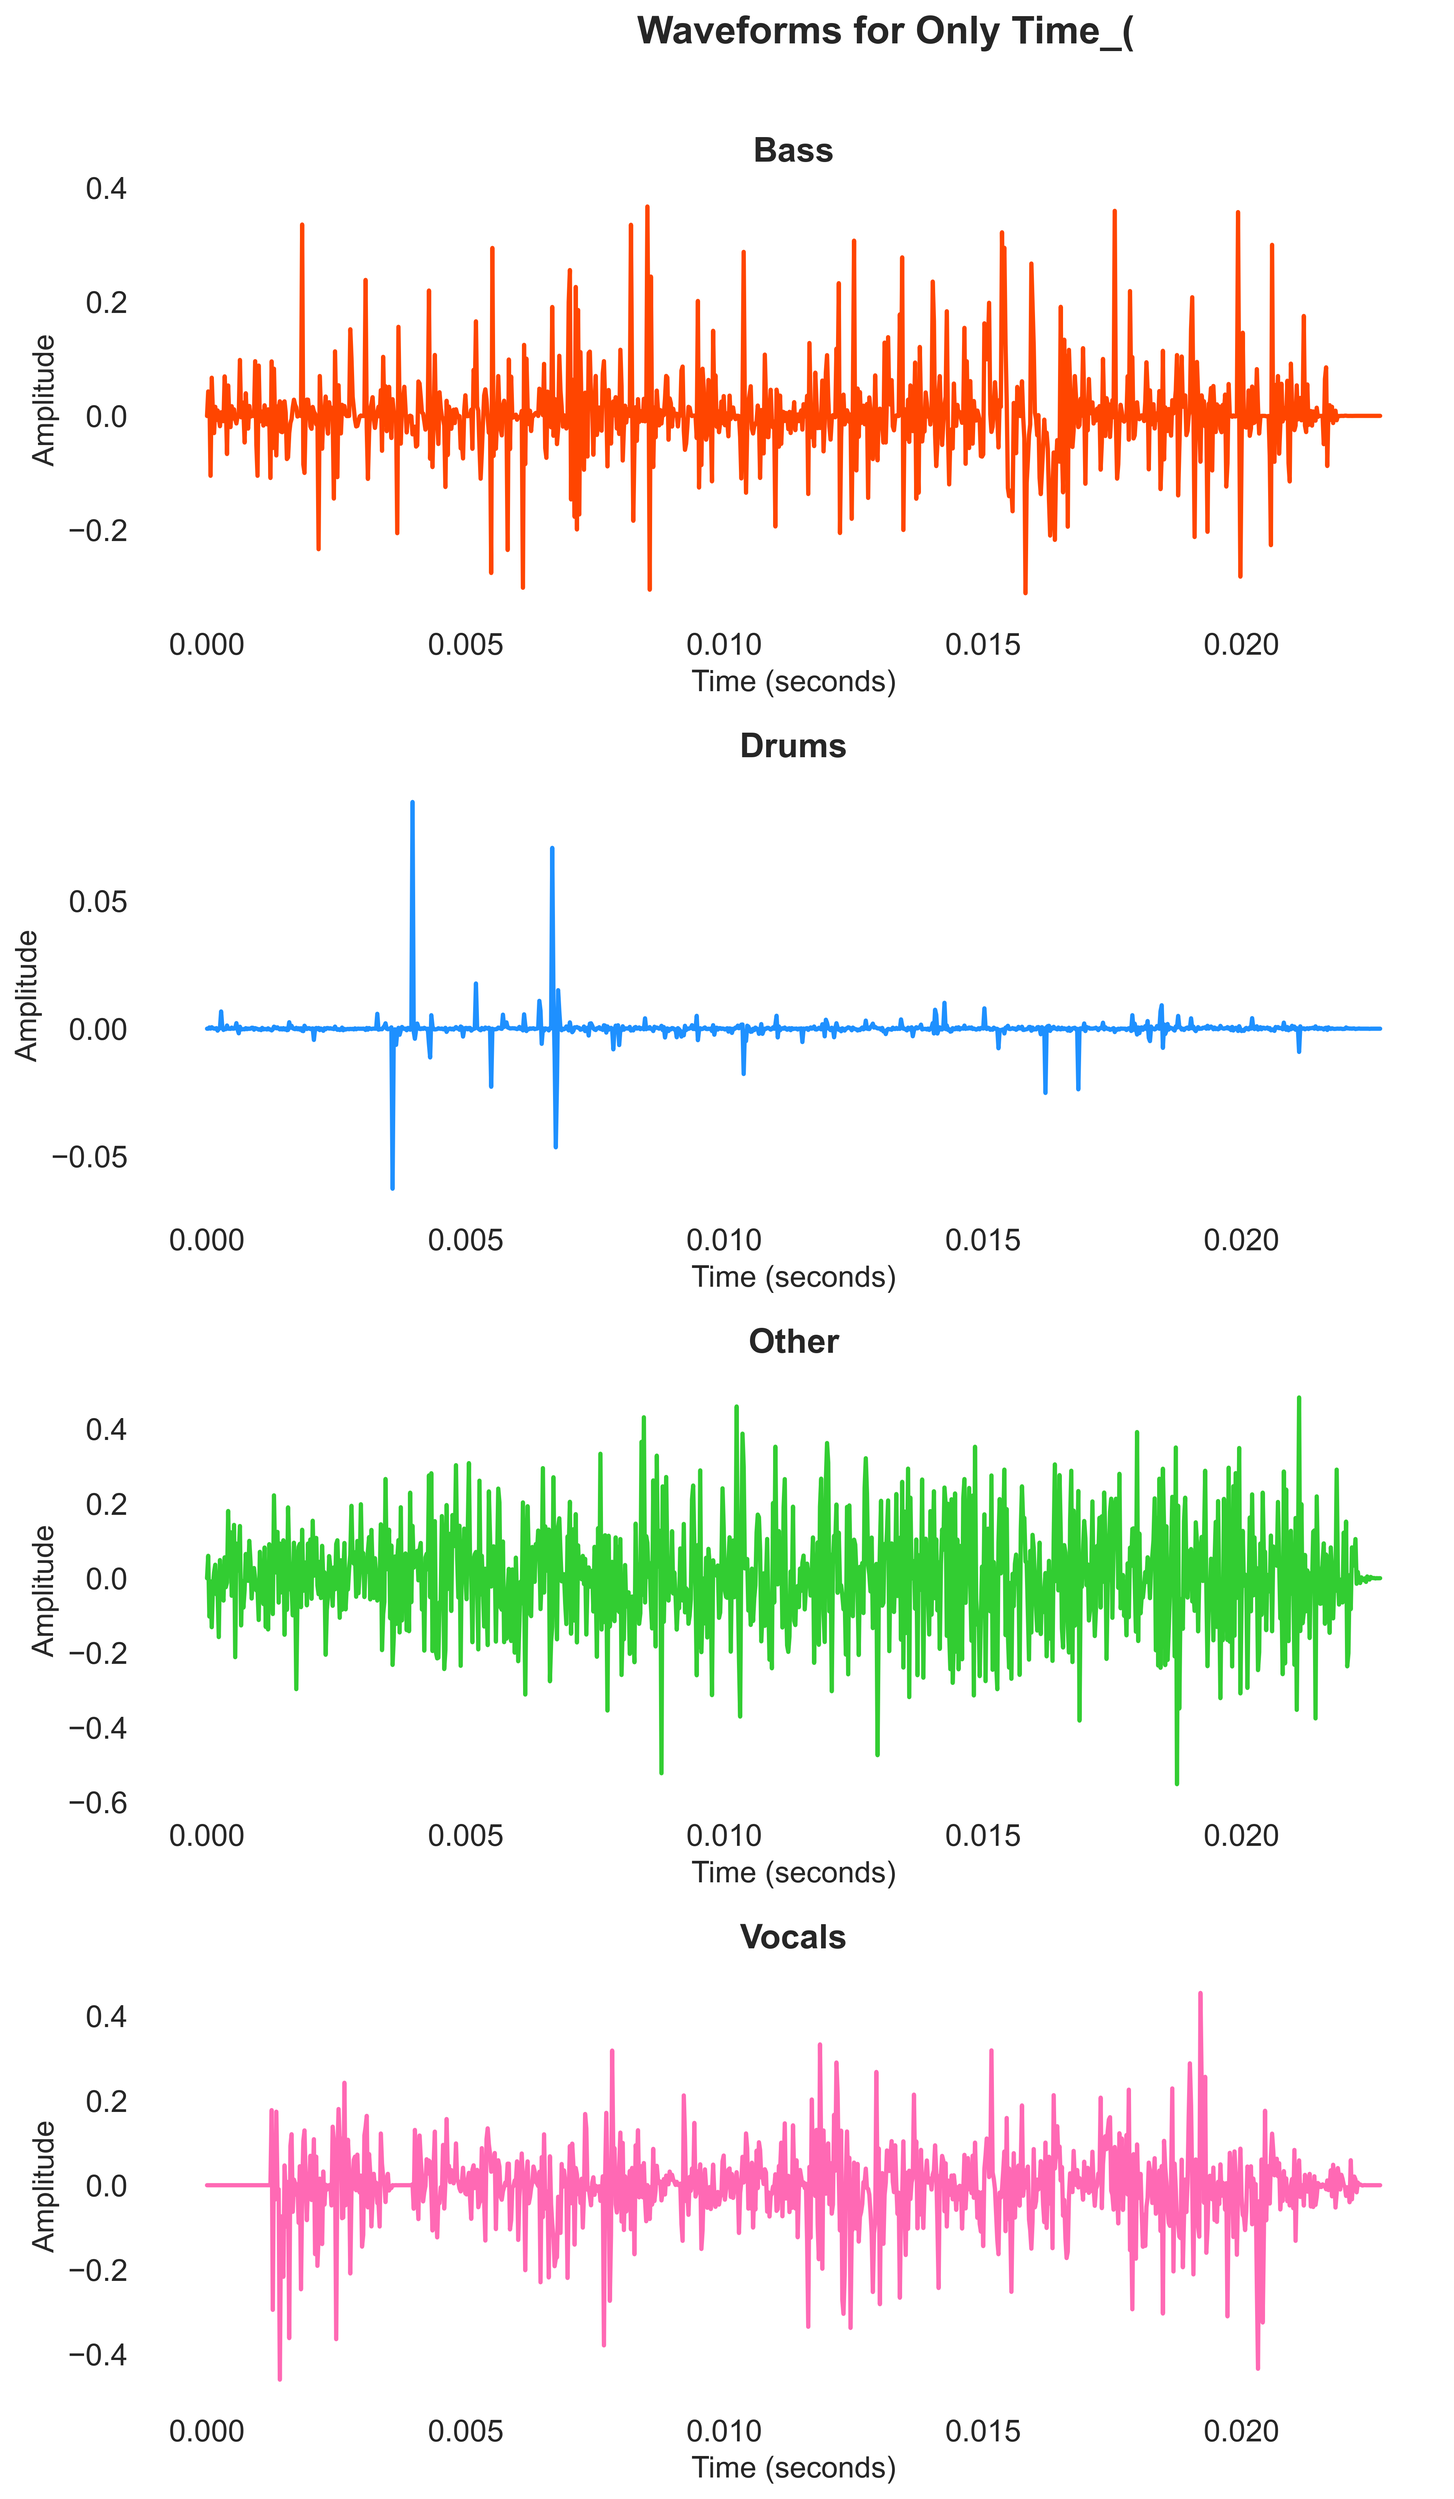
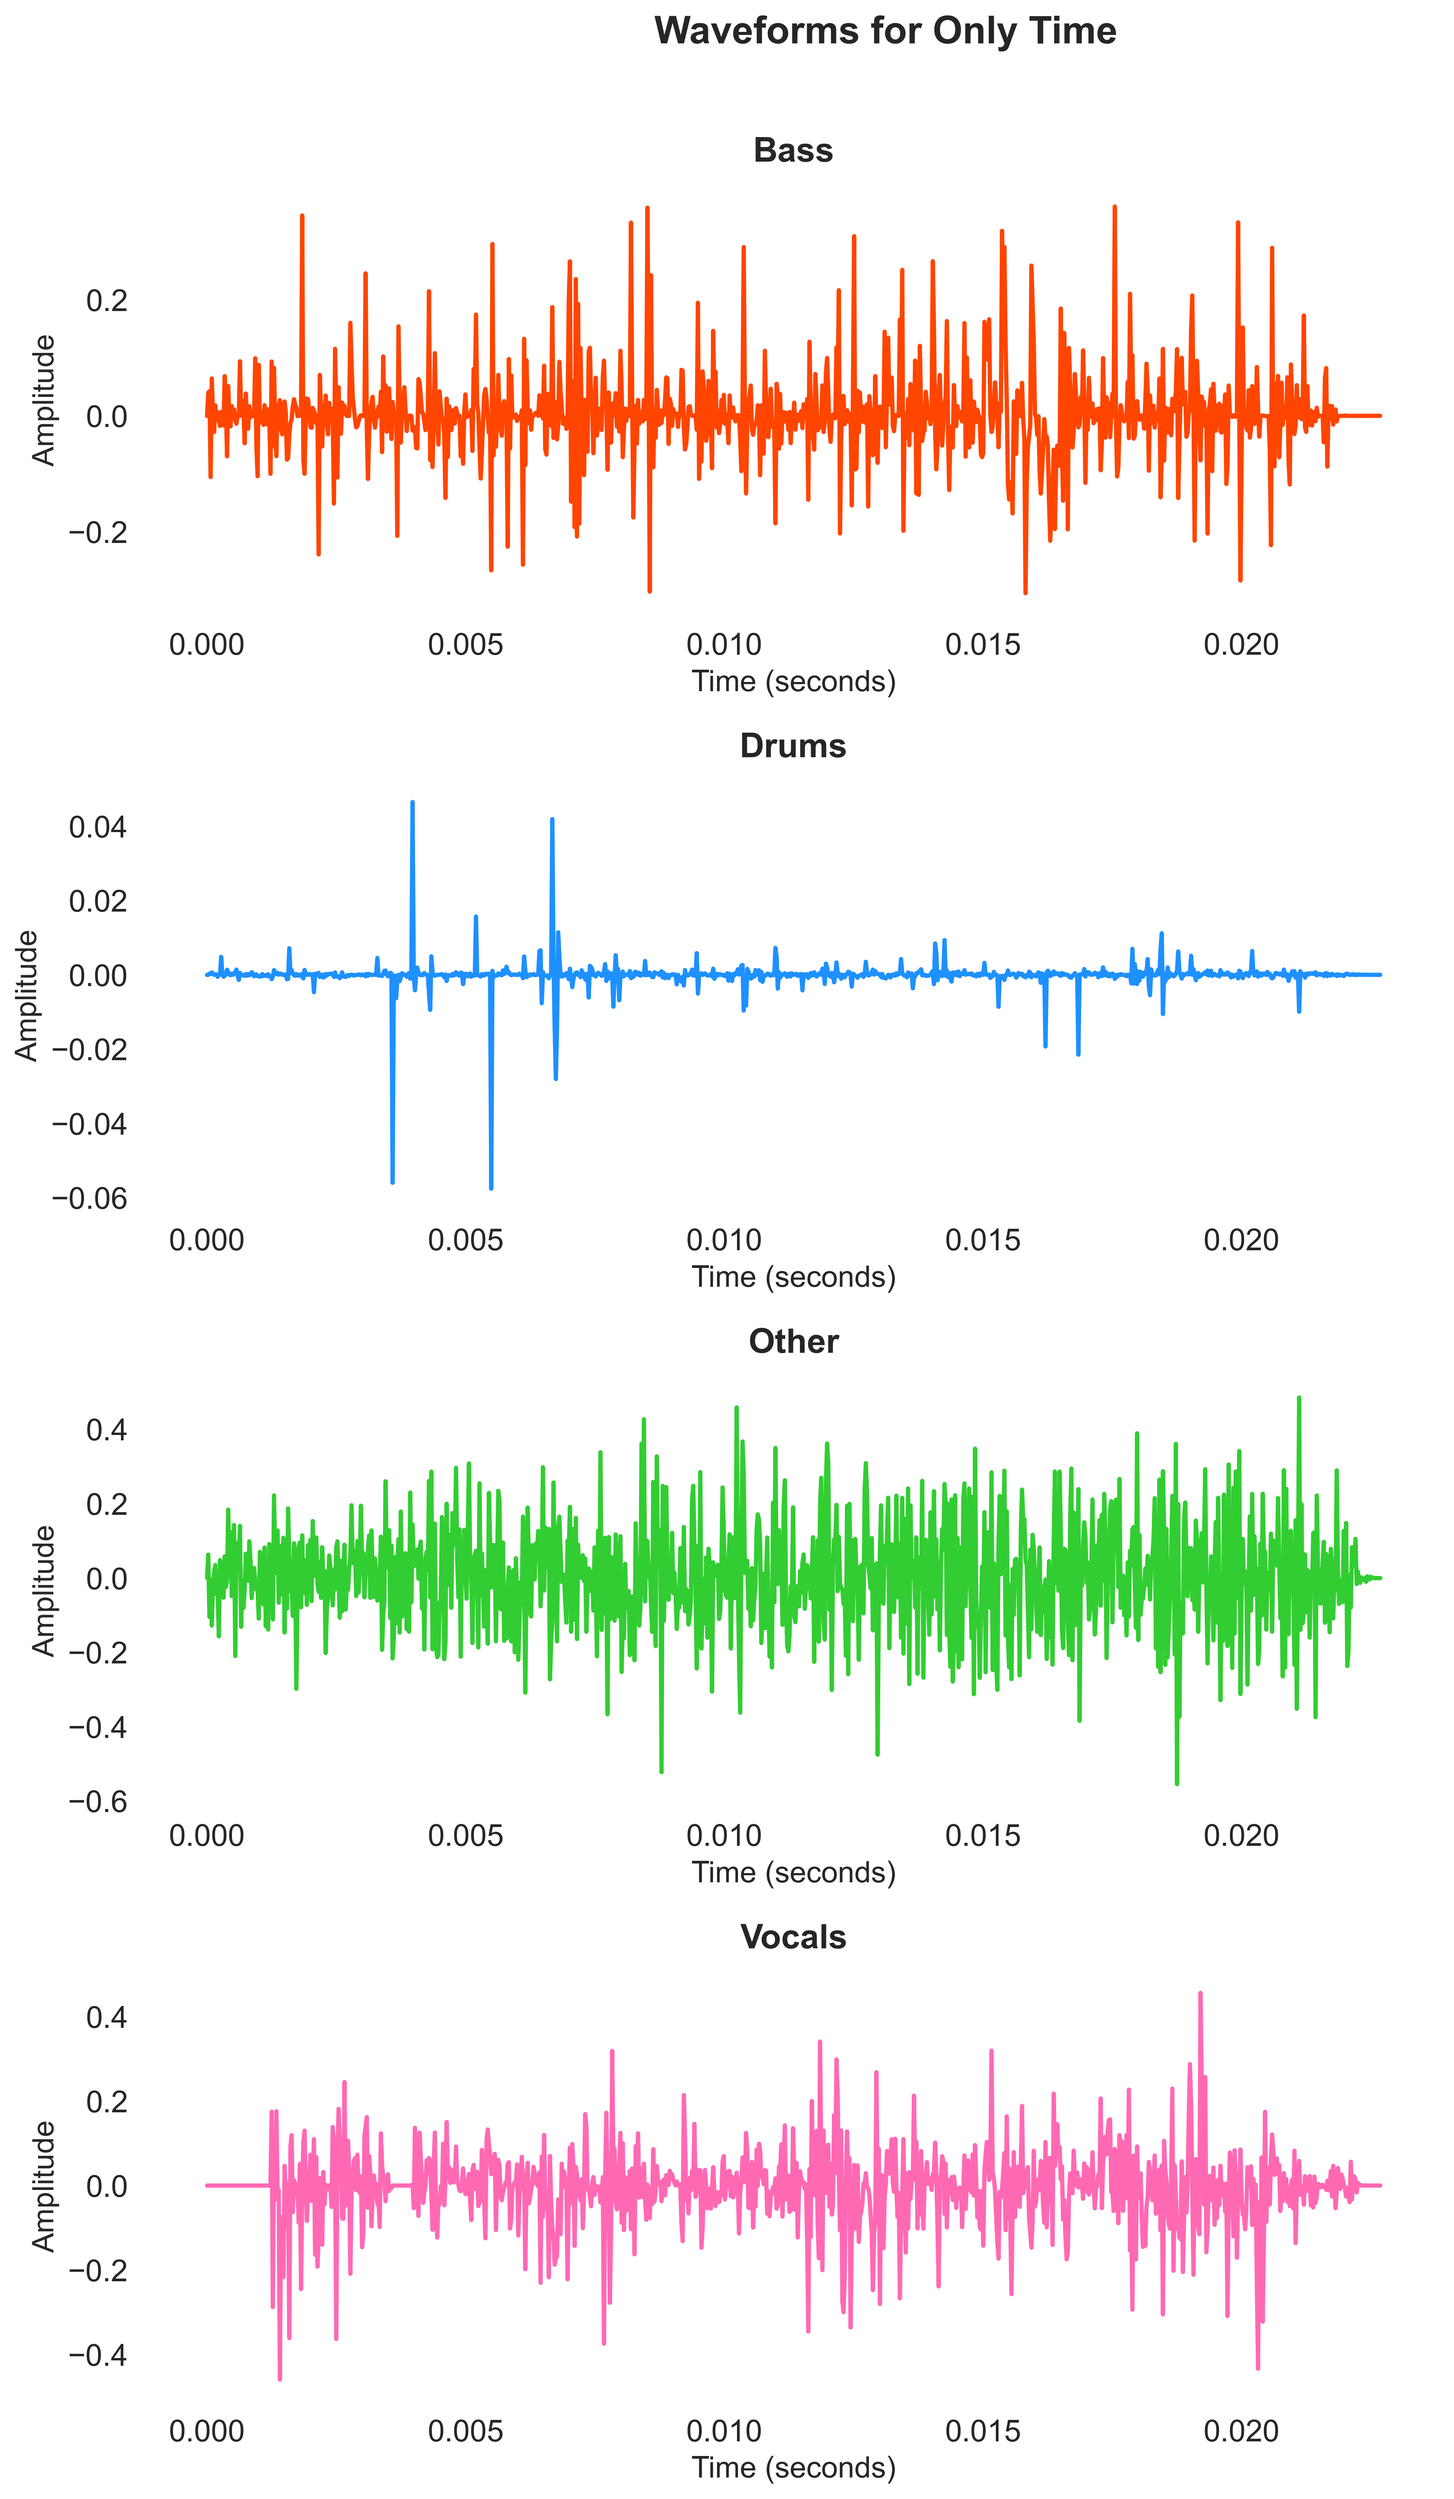
[main] corrected the titles in plotter.py and removed stereo ensurements in audio_processor.py. 	modified:   docs/images/only_time_combined_spectrograms_audio_separator_htdemucs_6s.png 	modified:   docs/images/only_time_combined_spectrograms_audio_separator_htdemucs_ft.png 	modified:   docs/images/o

diff --git a/stem_separator/audio_processor.py b/stem_separator/audio_processor.py
@@ -42,9 +42,9 @@ class StemSeparator:
             logger.info(f"{audio_path} - Loaded with sample rate {original_sample_rate} Hz")
 
             # Ensure stereo
-            if waveform.shape[0] == 1:
-                waveform = waveform.repeat(2, 1)
-                logger.info("Converted mono to stereo")
+            #if waveform.shape[0] == 1:
+            #    waveform = waveform.repeat(2, 1)
+            #    logger.info("Converted mono to stereo")
 
             # Resample to 44100 Hz if necessary
             if original_sample_rate != self.sample_rate:

diff --git a/stem_separator/plotter.py b/stem_separator/plotter.py
@@ -54,7 +54,7 @@ def get_common_audio_name(stem_dict: Dict[str, str]) -> str:
         else:
             cleaned_names.append(path)
     
-    common_name = common_prefix(cleaned_names)
+    common_name = common_prefix(cleaned_names).replace("_(", "")
     if not common_name:
         raise ValueError("Could not determine common audio name from stem files")
     return common_name
